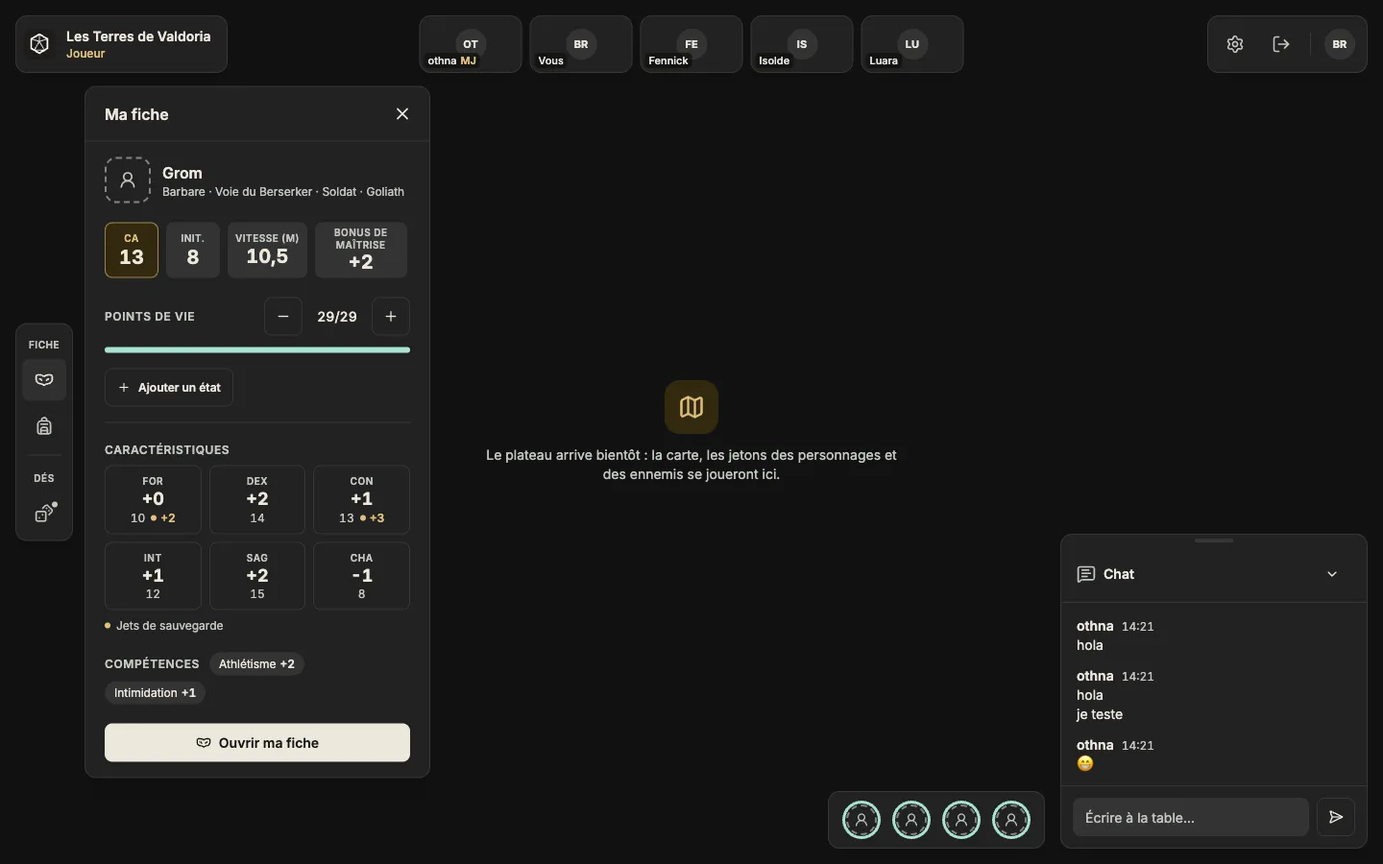
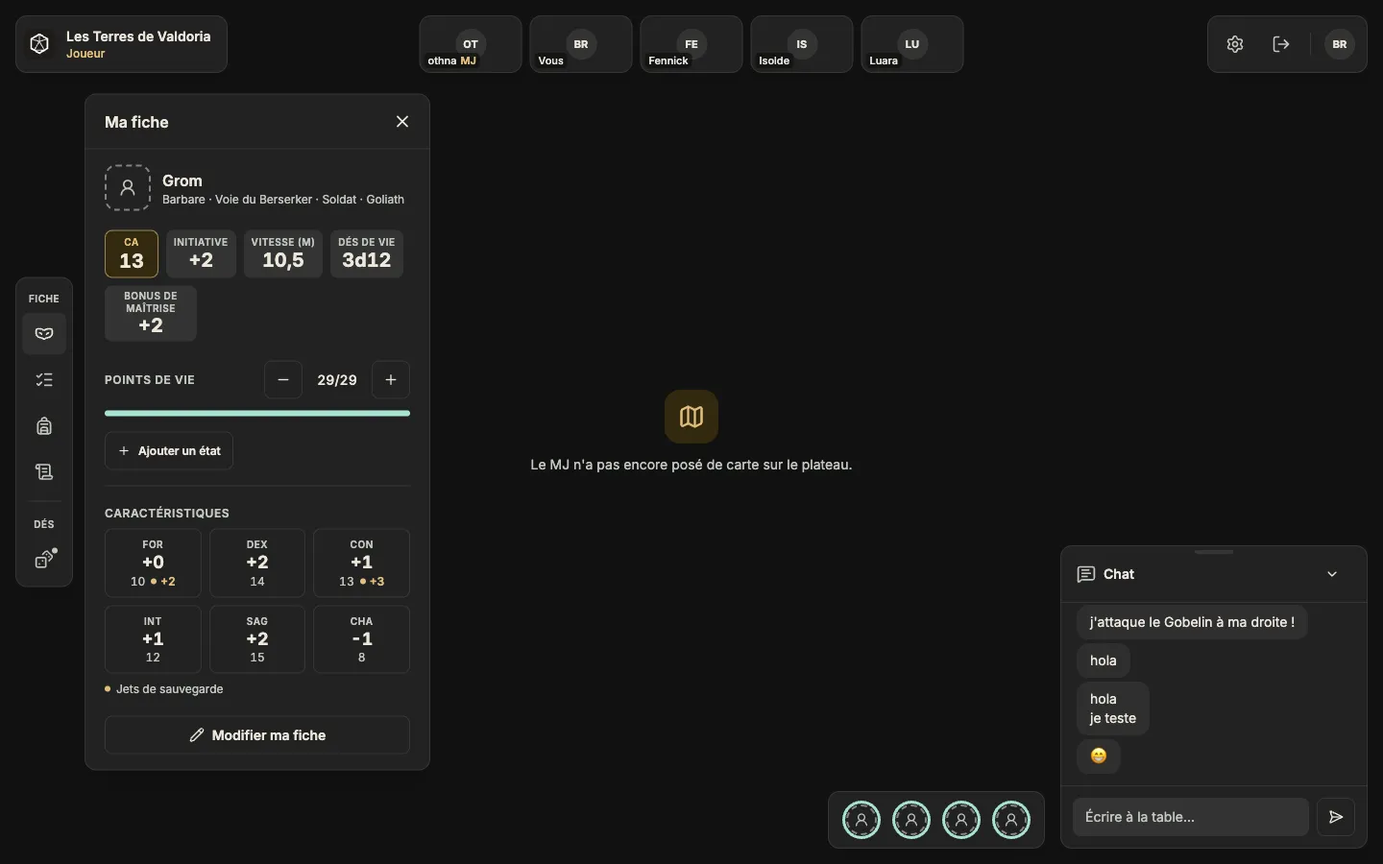
docs(game-room): note the panels and actions of a player

diff --git a/CLAUDE.md b/CLAUDE.md
@@ -1065,13 +1065,13 @@ Fait dans `feature/p1-game-room-frame` (le cadre de la salle de jeu, maquette C 
   - **Trois niveaux à ne pas confondre** : la **bibliothèque** (le catalogue : bestiaire, objets, PNJ créés par le MJ ; la fiche complète, pour préparer), la **fiche d'un PNJ ou d'un ennemi de la table** (sa copie dans `characters`), et le **combattant en jeu** (un jeton : ses PV, ses états, son initiative, seulement ce qui sert pendant un combat ; chaque gobelin le sien). L'état d'un combattant vit avec le jeton du plateau, à décider avec Julien
   - **La barre des combattants** : un îlot **en bas, à gauche du chat** (contre le bord droit de 768 à 1023 px, où le chat n'est pas), 60 px de haut comme lui, **toujours là**, à la place des joueurs de la barre d'outils. Un portrait rond par combattant (l'avatar d'un joueur, les initiales d'une créature, son numéro « 2 » dans un coin), dans l'anneau de ses PV (jamais pour un joueur qui regarde une créature) ; les portraits défilent quand ils ne tiennent pas, le tour en cours ramené au milieu
   - **Déroulé** (« tour par tour » et non « combat », décision : un MJ peut vouloir des tours sans combat) : **hors du tour par tour**, les joueurs seuls, sans ordre, et « Lancer le tour par tour » pour le MJ ; **une question d'abord** (`game_rooms/_turn_start_dialog`) : demander un jet d'initiative à toute la table (l'ordre suivra les résultats), ou « Sans jet » (les joueurs font autrement ; l'ordre reste celui de la barre) ; **préparation** : le MJ place sa carte, ses ennemis et ses zones bloquantes, la table lance son initiative s'il l'a demandé (« Préparation · 2 joueurs en attente »), les créatures entrent dans la barre, **cachées aux joueurs** (un œil barré) tant que le MJ n'a pas appuyé sur **« Prêt »** (bouton `:attention`, à côté d'« Annuler ») ; le serveur lance pour un joueur qui ne l'a pas fait ; **tours** : l'ordre, « Tour N », contour doré sur celui dont c'est le tour, « Tour suivant », « Fin du tour par tour » **demandé d'abord** dans la fenêtre de confirmation (l'ordre et les tours effacés, PV et états gardés). **Le MJ réordonne**, pendant les tours et dès la préparation sans jet, en glissant un portrait à la souris ou au doigt (un glisser fait à la main, `pointerdown` : un portrait est un bouton, d'où un navigateur ne lance pas de glisser-déposer natif ; le relâcher n'ouvre pas sa fiche), ou Alt et une flèche dessus ; le nouvel ordre est **demandé d'abord** (« Valider le nouvel ordre ? »), l'ordre d'avant revient s'il refuse
-  - **Fiche rapide** (au clic sur un portrait, au-dessus de la barre ; **le MJ seulement** : depuis le 26 novembre, demande d'Anthony, le portrait d'un joueur ouvre chez lui **son panneau « Ma fiche »**, comme l'outil de la barre, en ligne aussi, et les autres portraits n'ouvrent rien ; ce panneau, dans l'ordre où on le lit en combat (photo de 48 px ; le combat juste sous les valeurs, avant les caractéristiques), montre en plus sa CA, son initiative et, à côté, vitesse et bonus de maîtrise (`own_quick_stats`, `QUICK_STAT_FIELD_KEYS`, une case `game_rooms/_stat_box`, écrit pour D&D comme la CA en attendant que le modèle les déclare ; nom court : l'`abbreviation` du modèle, ajoutée à ces quatre champs de la fantasy), ses six caractéristiques (modificateur, score, et dans la case le jet de sauvegarde maîtrisé, point doré et bonus : la section qui a un bonus par caractéristique, `own_tile_bonus_section`), ses compétences cochées en pastilles (`own_ticked_chip_sections`), puis **la même carte de combat** que la fiche rapide, `game_rooms/_fighter_status` et `fighter_card_controller.js` (PV, états, emplacements, attaques ; ses − et +, ses états et ses emplacements cochables seulement avec `GameRoom.preview_features?`), qui prévient la barre par des événements, `fighter-card:hit-points` (l'anneau du portrait) et `fighter-card:open-conditions` (la fenêtre des états)) : le nom, **classe et espèce** dessous, la **CA dans une case dorée** et l'initiative à côté, les PV avec − et + et une barre, « Ajouter un état » qui ouvre **une fenêtre des états du modèle avec leur règle courte** (les états choisis en pastilles sous le bouton, retirés d'un clic), les **emplacements de sorts** d'un joueur par niveau, cochés quand ils sont utilisés, les attaques avec leurs dés et leurs dégâts, « Voir la fiche complète »
+  - **Fiche rapide** (au clic sur un portrait, au-dessus de la barre ; **le MJ seulement** : depuis le 26 novembre, demande d'Anthony, le portrait d'un joueur ouvre chez lui **son panneau « Ma fiche »**, comme l'outil de la barre, en ligne aussi, et les autres portraits n'ouvrent rien ; ce panneau, dans l'ordre où on le lit en combat (photo de 48 px ; le combat juste sous les valeurs, avant les caractéristiques), montre en plus sa CA, son initiative et, à côté, initiative, vitesse, dés de vie et bonus de maîtrise (`PlayerSheetPanelsHelper#own_quick_stats`, `QUICK_STAT_FIELD_KEYS`, une case `game_rooms/_stat_box` ; l'initiative tirée, simulée, reste dans la barre des combattants, écrit pour D&D comme la CA en attendant que le modèle les déclare ; nom court : l'`abbreviation` du modèle, ajoutée à ces quatre champs de la fantasy), ses six caractéristiques (modificateur, score, et dans la case le jet de sauvegarde maîtrisé, point doré et bonus : la section qui a un bonus par caractéristique, `own_tile_bonus_section`), puis **la même carte de combat** que la fiche rapide, `game_rooms/_fighter_status` et `fighter_card_controller.js` (PV, états, emplacements, attaques ; ses − et +, ses états et ses emplacements cochables seulement avec `GameRoom.preview_features?`), qui prévient la barre par des événements, `fighter-card:hit-points` (l'anneau du portrait) et `fighter-card:open-conditions` (la fenêtre des états)) : le nom, **classe et espèce** dessous, la **CA dans une case dorée** et l'initiative à côté, les PV avec − et + et une barre, « Ajouter un état » qui ouvre **une fenêtre des états du modèle avec leur règle courte** (les états choisis en pastilles sous le bouton, retirés d'un clic), les **emplacements de sorts** d'un joueur par niveau, cochés quand ils sont utilisés, les attaques avec leurs dés et leurs dégâts, « Voir la fiche complète »
   - **Le modèle décide, l'interface garde sa forme** (décision) : la règle d'initiative (dés, caractéristique ajoutée ; sans règle, pas de jet), la case de la CA (un champ marqué par le modèle : « Protection » en horreur cosmique) et la ligne sous le nom seront **déclarées par le modèle** ; cette première version les écrit encore pour D&D (d20 + DEX, clés `armor_class`, `class`, `species`). PV, états, emplacements et attaques lisent déjà le modèle
   - **Annuler une action** (demande d'Anthony) : dans l'historique des actions (le fil de jeu), le MJ pourra revenir en arrière (un « Tour suivant » de trop, un jet de dés, des PV changés...) quand un joueur ou lui se trompe : chaque action sera enregistrée avec ce qu'elle a changé
   - À trancher : où voir les joueurs sous 768 px (la barre des combattants n'y est pas)
 - **Donner un objet** (demande d'Anthony) : dans le panneau « Objets », « Donner » sur chaque objet ouvre une fenêtre (`game_rooms/_item_gift_dialog`, `item_gift_controller.js`) : à qui (les personnages terminés des joueurs, `GameRoom#gift_receivers`), combien (1 à 99), puis « Donner ». **Enregistré pour de vrai** : `GameTables::ItemGiftsController` (`POST /game_tables/:id/item_gift`, MJ de la table seulement, `TableOfGameMaster` ; un objet du catalogue de la table, `Catalogs::TableCatalog` ; un personnage de ses joueurs ; 404 sinon) met une copie de l'objet dans l'inventaire (`InventoryItem.from_entry`, aussi lu par `copy_of`), puis revient dans la salle, le panneau toujours ouvert, avec une bulle « 3 × « Dague » donnés à Aria. ». Échap dans une fenêtre ne ferme plus le panneau dessous (`game_room_panels_controller.js#close` : aucune fenêtre ouverte)
-- **Placer sur le plateau, première version** (demande d'Anthony ; rien d'enregistré, le vrai plateau est la branche de Julien) : « Placer » sur une carte dessinée du panneau « Cartes » l'affiche sur le plateau, **sur tout l'écran**, sous les îlots, aussi grande qu'elle tient sans être coupée (décision), dessinée comme son aperçu avec ses jetons (`game_tables/show`, une `<svg>` cachée par carte, `room_board_controller.js`) ; le bouton devient alors **« Retirer »**, qui la retire du plateau (et lâche l'outil d'une créature) ; « Placer » sur un PNJ ou un ennemi du panneau « PNJ et ennemis » le prend **comme outil, comme un jeton dans l'éditeur de cartes** : chaque clic sur la carte pose son jeton dans la case visée (une par case, `map_preview_controller.js#placeToken`), une bulle en haut le dit, Échap ou le clic droit le lâchent. **Sans carte sur le plateau, ce bouton ne fait rien et le dit** (`aria-disabled`, info-bulle « Placez d'abord une carte sur le plateau »). « Ajouter une carte », dans le panneau « Cartes », ouvre **dans la salle** la fenêtre « Importer depuis Mes cartes » de l'étape Cartes (`game_tables/game_maps/_dialog`, rendue par `layouts/game_room` pour le MJ ; demande d'Anthony : avant, il renvoyait vers l'étape de création) : la carte choisie est copiée dans la table et la salle se rafraîchit, le panneau toujours ouvert. **Un joueur a aussi « Inventaire » et « Sorts »** dans le groupe « Fiche » (demande d'Anthony, 26 novembre ; « Sorts » seulement s'il en a, `GameRoom#tool_groups`) : `game_rooms/panels/_inventory` (l'or, puis les objets) et `_spells` (en tête, le DD et l'attaque des sorts, `SPELL_STAT_FIELD_KEYS`, et **les emplacements de sorts**, `game_rooms/_spell_slots`, décision du 26 novembre : on les regarde en lançant un sort, ils ne sont plus dans « Ma fiche », la fiche rapide du MJ les garde ; puis les sorts par groupe, `summary_spell_groups`), en lecture seule sauf les emplacements à cocher, et « Modifier » de la fiche complète ouvre son formulaire **dans la même fenêtre** (`characters/edit` rendu dans le frame `character_sheet_dialog`, formulaire commun `characters/_description_form`, formulaires de la photo dans le frame ; `CharactersController#update` ramène à la fiche dans la fenêtre ; avant, « Content missing »), chaque ligne ouvrant ses détails dans **une seule** fenêtre `shared/_details_dialog` rendue par `layouts/game_room`, `details-dialog` posé sur la salle. Les panneaux **prennent la hauteur de leur contenu** et défilent au-delà de la hauteur de l'écran (`md:max-h-[calc(100dvh-11rem)]`, demande d'Anthony)
-- **Caméras** (demande d'Anthony, en attendant la visio Jitsi) : **en haut au milieu, sur une ligne, sans carte** (décision, après un premier essai dans un îlot à droite sous les paramètres), centrée sur l'écran, son haut sur celui des îlots, 320 px gardés de chaque côté pour le nom de la table (limité à 288 px) et les paramètres (`game_rooms/_video`) : une place par personne de la table (`GameRoom#video_participations` : le MJ, puis les joueurs acceptés ; leur avatar et leur nom, « Vous » pour soi, « MJ »), chacune un petit îlot 16:9 ; la liste avec un `id` fixe et `data-turbo-permanent` (règle de la visio). **Pas de défilement** (décision) : quand les places ne tiennent pas, elles rétrécissent toutes ensemble en gardant leur format 16:9, la taille choisie n'étant qu'un maximum. **Trois tailles** : 60 px de haut (celle des îlots), 90 ou 135 px. **Sous 60 px de haut, la ligne se replie toute seule** (décision : quand les places à leur plus petite taille, 107 px de large, ne tiennent plus entre les îlots, elle devient un bouton « Visio » de 60 px de haut, qui ouvre la visio au centre). **Visio au centre** (décision) : les caméras prennent la place entre la barre d'outils, les îlots du haut et la barre des combattants, **posées sur le plateau, sans carte autour** (décision), en grandes places de 320 px rangées en rangées centrées, jusqu'à « Revenir en haut » ou Échap (`data-size="stage"`, `GameRoomHelper::VIDEO_CLASSES`, `VIDEO_PLACES_CLASSES`, `VIDEO_PLACE_CLASSES`, clé `game_room_video_stage`). Au survol ou au clavier, une petite pastille sous la ligne (« Visio · Bientôt », −, +, visio au centre, replier ; boutons de 28 px, `GameRoomHelper::ISLAND_HEADER_BUTTON_CLASSES`) ; repliée, il ne reste qu'un bouton « Visio ». Dans Paramètres › Visio et son, « Afficher les caméras » et « Taille des caméras » (`video_settings_controller.js`). Tout gardé dans ce navigateur (`video_island_controller.js`, clés `game_room_video_size`, `game_room_video_folded`, `game_room_video_hidden`), les caméras et les réglages accordés par l'événement `game-room-video:change`. À partir de 768 px
+- **Placer sur le plateau, première version** (demande d'Anthony ; rien d'enregistré, le vrai plateau est la branche de Julien) : « Placer » sur une carte dessinée du panneau « Cartes » l'affiche sur le plateau, **sur tout l'écran**, sous les îlots, aussi grande qu'elle tient sans être coupée (décision), dessinée comme son aperçu avec ses jetons (`game_tables/show`, une `<svg>` cachée par carte, `room_board_controller.js`) ; le bouton devient alors **« Retirer »**, qui la retire du plateau (et lâche l'outil d'une créature) ; « Placer » sur un PNJ ou un ennemi du panneau « PNJ et ennemis » le prend **comme outil, comme un jeton dans l'éditeur de cartes** : chaque clic sur la carte pose son jeton dans la case visée (une par case, `map_preview_controller.js#placeToken`), une bulle en haut le dit, Échap ou le clic droit le lâchent. **Sans carte sur le plateau, ce bouton ne fait rien et le dit** (`aria-disabled`, info-bulle « Placez d'abord une carte sur le plateau »). « Ajouter une carte », dans le panneau « Cartes », ouvre **dans la salle** la fenêtre « Importer depuis Mes cartes » de l'étape Cartes (`game_tables/game_maps/_dialog`, rendue par `layouts/game_room` pour le MJ ; demande d'Anthony : avant, il renvoyait vers l'étape de création) : la carte choisie est copiée dans la table et la salle se rafraîchit, le panneau toujours ouvert. **Toute la fiche d'un joueur est dans ses panneaux** (demande d'Anthony, 26 novembre) : le groupe « Fiche » a « Ma fiche », « Compétences » (toutes les lignes de bonus par section, `game_rooms/panels/_skills`, `summary/_rows`), « Inventaire » (son bouton à bordure **« −1 »**, `TAKE_ONE_BUTTON_CLASSES`, retire un exemplaire, enregistré : `GameTables::InventoryItemsController#destroy`, `InventoryItem#take_one_away`, le dernier demandé d'abord, la liste redessinée en place par un Turbo Stream ; `details_dialog_controller.js` montre ses boutons par `openerTargetConnected`, aussi après ce redessin ; **les pièces d'or se dépensent**, sur une ligne : leur valeur à gauche, la somme entre « − » et « + » (le compteur de la fiche, à partir de 1) et « Retirer » à droite, jamais plus que possédé, `GameTables::InventoryValuesController`, `own_removable_value?`), « Sorts » (**« Changer mes sorts »**, décision du 26 novembre : quand il veut, dans les nombres de sa classe et de son niveau, la liste de l'étape Sorts dans la grande fenêtre de la salle, `GameTables::SpellChoicesController`, le changement écrit dans le chat, événement `spells_changed` en notation neutre « + Aide · − Soins » ; `shared/_details_dialog` prend un `id:` quand une page en a deux) et « Détails » (`game_rooms/panels/_details` : **tout le reste de la fiche, calculé** par `PlayerSheetPanelsHelper#own_detail_sections`, ce que montre la fiche complète moins ce qu'un autre panneau montre, rangé par section dans les cases du récapitulatif ; le niveau avec la première section ; **sans les longs textes**, apparence, traits, histoire, décision : trop longs pour le panneau, ils sont dans « Modifier ma fiche », `GROUPS_LEFT_OUT_OF_DETAILS`). Un outil vide n'apparaît pas (`GameRoom#tool_groups` : « Sorts » sans sorts, « Compétences » sans lignes de bonus). Les helpers des panneaux sont dans `PlayerSheetPanelsHelper` (sortis de `CombatStripHelper`). **« Ouvrir ma fiche » devient « Modifier ma fiche »** (bouton secondaire au pied de « Ma fiche ») : le formulaire du personnage dans la fenêtre de la salle ; « Annuler » la ferme, « Enregistrer » rafraîchit la salle (`turbo_stream.refresh`), qui montre le changement. Le joueur a aussi « Inventaire » et « Sorts » : `game_rooms/panels/_inventory` (l'or, puis les objets) et `_spells` (en tête, le DD et l'attaque des sorts, `SPELL_STAT_FIELD_KEYS`, et **les emplacements de sorts**, `game_rooms/_spell_slots`, décision du 26 novembre : on les regarde en lançant un sort, ils ne sont plus dans « Ma fiche », la fiche rapide du MJ les garde ; puis les sorts par groupe, `summary_spell_groups`), en lecture seule sauf les emplacements à cocher, et le formulaire du personnage s'ouvre **dans la fenêtre de la fiche** (`characters/edit` rendu dans le frame `character_sheet_dialog`, formulaire commun `characters/_description_form`, formulaires de la photo dans le frame ; avant, « Content missing »), chaque ligne ouvrant ses détails dans **une seule** fenêtre `shared/_details_dialog` rendue par `layouts/game_room`, `details-dialog` posé sur la salle. Les panneaux **prennent la hauteur de leur contenu** et défilent au-delà de la hauteur de l'écran (`md:max-h-[calc(100dvh-11rem)]`, demande d'Anthony)
+- **Caméras** (demande d'Anthony, en attendant la visio Jitsi) : **en haut au milieu, sur une ligne, sans carte** (décision, après un premier essai dans un îlot à droite sous les paramètres), centrée sur l'écran, son haut sur celui des îlots, 320 px gardés de chaque côté pour le nom de la table (limité à 288 px) et les paramètres (`game_rooms/_video`) : une place par personne de la table (`GameRoom#video_participations` : le MJ, puis les joueurs acceptés ; leur avatar et leur nom, « Vous » pour soi, « MJ »), chacune un petit îlot 16:9 ; la liste avec un `id` fixe et `data-turbo-permanent` (règle de la visio). **Pas de défilement** (décision) : quand les places ne tiennent pas, elles rétrécissent toutes ensemble en gardant leur format 16:9, la taille choisie n'étant qu'un maximum. **Trois tailles** : 60 px de haut (celle des îlots), 90 ou 135 px. **Sous 60 px de haut, la ligne se replie toute seule** (décision : quand les places à leur plus petite taille, 107 px de large, ne tiennent plus entre les îlots, elle devient un bouton « Visio » de 60 px de haut, qui ouvre la visio au centre). **Visio au centre** (décision) : les caméras prennent la place entre la barre d'outils, les îlots du haut et la barre des combattants, **posées sur le plateau, sans carte autour** (décision), en grandes places de 320 px rangées en rangées centrées, jusqu'à « Revenir en haut » ou Échap (`data-size="stage"`, `GameRoomHelper::VIDEO_CLASSES`, `VIDEO_PLACES_CLASSES`, `VIDEO_PLACE_CLASSES`, clé `game_room_video_stage`). Au survol ou au clavier, une petite pastille sous la ligne (« Visio », −, +, visio au centre, replier ; « Bientôt » retiré de la pastille et du bouton replié, qui fait 40 px de haut, demande d'Anthony ; boutons de 28 px, `GameRoomHelper::ISLAND_HEADER_BUTTON_CLASSES`) ; repliée, il ne reste qu'un bouton « Visio ». Dans Paramètres › Visio et son, « Afficher les caméras » et « Taille des caméras » (`video_settings_controller.js`). Tout gardé dans ce navigateur (`video_island_controller.js`, clés `game_room_video_size`, `game_room_video_folded`, `game_room_video_hidden`), les caméras et les réglages accordés par l'événement `game-room-video:change`. À partir de 768 px
 - Tests : `test/integration/game_room_test.rb` (outils et groupes par rôle, la barre des combattants et ses fiches rapides selon le rôle, les caméras, le chat, les paramètres, quitter) ; vérifié dans le navigateur (MJ et joueur, panneaux, info-bulles, chat replié et agrandi au clavier, sombre, téléphone à 375 px sans défilement de côté)
 
 Fait dans `feature/p1-game-room-chat` (le chat de la salle de jeu : messages en direct et fil de jeu) :

diff --git a/docs/salle-de-jeu.md b/docs/salle-de-jeu.md
@@ -66,21 +66,32 @@ Sur téléphone (simplifié, décision) : la barre d'outils en bas, un panneau p
 - « Créer un objet » ouvre sa fenêtre dans la salle.
 - **« Donner »** : fenêtre « Donner « Arc court » » → à qui (personnages terminés des joueurs), combien (1 à 99) → « Donner ». **Enregistré** : une copie de l'objet entre dans l'inventaire du personnage ; bulle « 3 × « Dague » donnés à Aria. ». Serveur : MJ de la table, objet du catalogue de la table, personnage d'un de ses joueurs, sinon 404 (`GameTables::ItemGiftsController`).
 
-### Ma fiche (joueur)
-Ouvert par l'outil « Ma fiche » **ou par son propre portrait** dans la barre des combattants (décision du 26 novembre : le joueur n'a plus de fiche rapide au-dessus de la barre ; un second clic sur le portrait ferme le panneau, le focus revient à ce qui l'a ouvert). Dans l'ordre où on le lit en combat (demande d'Anthony : la photo petite) :
-- Une **petite photo** (48 px), le nom, les choix.
-- La **CA** dans sa case dorée, l'initiative, puis les valeurs qu'un joueur regarde en combat, dans des cases de même taille qui passent à la ligne : **vitesse, bonus de maîtrise**. Leur nom court est l'abréviation du modèle (« Vit. (m) », « Maîtrise »), sinon leur libellé, sur deux lignes au plus.
-- **Combat**, la même carte que la fiche rapide du MJ (`game_rooms/_fighter_status`, `fighter_card_controller.js`) : PV avec − et + (l'anneau du portrait suit), « Ajouter un état », attaques. **Les emplacements de sorts sont dans le panneau Sorts** (décision du 26 novembre).
-- **Caractéristiques** : six cases (abréviation, modificateur en grand, score avec le bonus de l'historique). Un **jet de sauvegarde maîtrisé** s'affiche dans la case de sa caractéristique, à côté du score : un point doré et son bonus (« 14 ● +4 »), avec une légende dessous (« ● Jets de sauvegarde »). C'est la section du modèle qui a un bonus par caractéristique.
-- **Compétences maîtrisées** en pastilles sur une ligne qui passe à la ligne (« Perspicacité +4 »), seulement celles cochées sur la fiche, par section du modèle.
-- « Ouvrir ma fiche » ouvre la fiche complète dans une fenêtre. Son bouton **« Modifier »** (nom, identité, description, photo) ouvre le formulaire **dans la même fenêtre** : « Enregistrer » et « Annuler » ramènent à la fiche, toujours dans la fenêtre ; le joueur ne quitte jamais la partie (décision du 26 novembre, avant : « Content missing »).
+### Les panneaux de la fiche (joueur)
+**Toute la fiche est dans les panneaux** (décision du 26 novembre) : le groupe « Fiche » de la barre a « Ma fiche », « Compétences », « Inventaire », « Sorts » et « Détails ». La fiche complète ne s'ouvre plus que pour **modifier** ce qui peut l'être. Un outil vide n'apparaît pas (`GameRoom#tool_groups`) : « Sorts » pour un personnage sans sorts, « Compétences » pour un modèle sans compétences.
 
-### Inventaire et Sorts (joueur)
-Deux outils de plus dans le groupe « Fiche » (décision du 26 novembre). **« Sorts » seulement pour un personnage qui a des sorts** (`GameRoom#tool_groups`).
-- **Inventaire** : l'or en tête (les valeurs de jeu de l'étape Équipement), puis une ligne par objet (« 2 × Dague », dégâts ou CA). « Rien dans l'inventaire. » sinon.
-- **Sorts** : en tête, ce qu'on regarde en lançant un sort (décision du 26 novembre) : le **DD et l'attaque des sorts** (« DD sorts », « Att. sorts »), puis les **emplacements de sorts**, cochés quand ils sont utilisés. Puis les sorts par groupe, comme au récapitulatif (toujours préparés, sorts mineurs, sorts préparés de niveau 1…), chacun avec son école. La fiche rapide du MJ garde aussi les emplacements.
-- Chaque objet et chaque sort ouvre **ses détails dans une fenêtre** (la même que sur la fiche, une seule pour la salle) ; Échap la ferme et laisse le panneau ouvert.
-- Lecture seule : ce que le personnage porte et connaît change par la fiche (et par « Donner » du MJ).
+#### Ma fiche
+Ouvert par l'outil « Ma fiche » **ou par son propre portrait** dans la barre des combattants (le joueur n'a plus de fiche rapide au-dessus de la barre ; un second clic sur le portrait ferme le panneau, le focus revient à ce qui l'a ouvert). Dans l'ordre où on le lit en combat :
+- Une **petite photo** (48 px), le nom, les choix (classe, sous-classe, historique, espèce).
+- La **CA** dans sa case dorée, puis les valeurs qu'un joueur regarde en combat, dans des cases de même taille qui passent à la ligne : **initiative, vitesse, dés de vie, bonus de maîtrise** (`PlayerSheetPanelsHelper::QUICK_STAT_FIELD_KEYS`). Leur nom court est l'abréviation du modèle (« Vit. (m) », « Maîtrise »), sinon leur libellé, sur deux lignes au plus. L'initiative tirée (simulée) reste dans la barre des combattants.
+- **Combat**, la même carte que la fiche rapide du MJ (`game_rooms/_fighter_status`, `fighter_card_controller.js`) : PV avec − et + (l'anneau du portrait suit), « Ajouter un état », attaques.
+- **Caractéristiques** : six cases (abréviation, modificateur en grand, score avec le bonus de l'historique). Un **jet de sauvegarde maîtrisé** s'affiche dans la case de sa caractéristique, à côté du score : un point doré et son bonus (« 14 ● +4 »), avec une légende dessous (« ● Jets de sauvegarde »).
+- **« Modifier ma fiche »** (bouton secondaire, crayon) : le formulaire du nom, de l'identité, de la description et de la photo, **dans une fenêtre de la salle**. « Annuler » la ferme ; « Enregistrer » rafraîchit la salle, qui montre le changement, fenêtre fermée. Le joueur ne quitte jamais la partie.
+
+#### Compétences
+**Toutes** les lignes de bonus, par section du modèle (« Jets de sauvegarde », « Compétences »), comme au récapitulatif : un point plein si maîtrisé, le nom, la caractéristique, le bonus à droite. Toutes, pas seulement les maîtrisées : le MJ peut demander n'importe quel jet.
+
+#### Inventaire
+L'or en tête (les valeurs de jeu de l'étape Équipement), puis une ligne par objet (« 2 × Dague », dégâts ou CA). « Rien dans l'inventaire. » sinon. Le bouton **« −1 »** d'une ligne (à bordure : un simple − se lisait comme une valeur vide) **retire un exemplaire** (une flèche tirée, une potion bue ; décision du 26 novembre : un à la fois), sans question ; le dernier exemplaire est demandé d'abord (« Retirer « Dague » de l'inventaire ? », en rouge) et retire la ligne. **Enregistré** (`GameTables::InventoryItemsController#destroy`, `InventoryItem#take_one_away` : un joueur accepté de la table, un objet de son propre personnage, 404 sinon, MJ compris) ; le serveur redessine la liste en place (`#game-room-inventory`), le panneau reste ouvert. **Les pièces d'or se dépensent** (demande d'Anthony, 26 novembre) : sur une ligne, comme les PV de « Ma fiche » : « PIÈCES D'OR 7 » à gauche, à droite la somme entre « − » et « + » (le compteur de la fiche, `character_sheets/fields/_stepper`, jamais les flèches du navigateur ; elle commence à 1) et « Retirer » ; jamais plus que ce que le personnage possède (« Indiquez une somme de 1 à 7. » sous le champ). Enregistré (`GameTables::InventoryValuesController`, toute valeur numérique rangée avec l'inventaire, `own_removable_value?`), même règle d'accès, même redessin.
+
+#### Sorts
+En tête, ce qu'on regarde en lançant un sort : le **DD et l'attaque des sorts** (« DD sorts », « Att. sorts »), puis les **emplacements de sorts**, cochés quand ils sont utilisés. Puis les sorts par groupe, comme au récapitulatif (toujours préparés, sorts mineurs, sorts préparés de niveau 1…), chacun avec son école. La fiche rapide du MJ garde aussi les emplacements.
+
+**« Changer mes sorts »**, en tête du panneau (décision du 26 novembre : **quand il veut**, dans les nombres de sa classe et de son niveau, vérifiés par le serveur, `CharacterSpellsValidator`), ouvre **la liste de l'étape Sorts de la création** dans la grande fenêtre de la salle, resserrée (`compact:`, demande d'Anthony : sans les emplacements, déjà dans le panneau derrière ; la recherche, son nom dans le champ, et les filtres sur une ligne ; 24 px entre les blocs) : recherche, filtres, sorts toujours préparés, compteurs « 2 sur 3 choisis », détails de chaque sort. « Enregistrer » rafraîchit la salle et **écrit le changement dans le chat**, pour que le MJ le voie : « Mirelle change ses sorts : + Aide · − Soins. » (les noms en notation neutre, la phrase dans la langue de chaque lecteur, événement `spells_changed`). Trop de sorts dans un groupe : la liste revient avec son erreur. `GameTables::SpellChoicesController` (un joueur accepté, son personnage terminé, une classe qui a des sorts à choisir ; 404 sinon, MJ compris).
+
+#### Détails
+**Tout le reste de la fiche**, calculé et non écrit à la main (`PlayerSheetPanelsHelper#own_detail_sections`) : ce que montre la fiche complète, moins ce qu'un autre panneau montre déjà. Rangé par section du modèle, avec les cases du récapitulatif : en fantasy, taille, alignement, langues et niveau, puis l'apparence physique (âge, taille, poids, yeux, cheveux, peau). **Les longs textes** (apparence, traits, histoire, capacités) **n'y sont pas** (décision du 26 novembre : trop longs pour un panneau étroit, peu utiles en partie) : ils se lisent et se changent dans « Modifier ma fiche ». Vérifié sur les douze personnages du seed : à part ces textes, rien de la fiche ne manque aux panneaux.
+
+Dans Inventaire et Sorts, chaque objet et chaque sort ouvre **ses détails dans une fenêtre** (la même que sur la fiche, une seule pour la salle) ; Échap la ferme et laisse le panneau ouvert. Tout est en lecture seule, sauf les PV, les états et les emplacements (simulés) et le retrait d'un objet (enregistré).
 
 ## Plateau
 
@@ -149,7 +160,7 @@ Au-dessus de la barre, une à la fois ; Échap ou un clic ailleurs la ferment. *
 
 - **Une ligne en haut, centrée sur l'écran, sans carte autour** : une vignette 16:9 par personne de la table (MJ puis joueurs), chacune un petit îlot, avatar et nom (« Vous » pour soi, « MJ ») en attendant Jitsi. Le haut des vignettes est aligné sur celui des îlots.
 - **Trois tailles** : 60 px de haut (celle des îlots), 90 ou 135 px. **Jamais de défilement** : quand elles ne tiennent pas, elles rétrécissent ensemble en gardant leur format ; **sous 60 px de haut, la ligne se replie toute seule** en un bouton « Visio » (60 px de haut), qui ouvre la visio au centre.
-- Au survol ou au clavier, une petite pastille sous la ligne : « Visio · Bientôt », −, +, **visio au centre**, replier. Repliée : un bouton « Visio ».
+- Au survol ou au clavier, une petite pastille sous la ligne : « Visio », −, +, **visio au centre**, replier. Repliée : un bouton « Visio » de 40 px de haut, la hauteur des boutons, avec un petit chevron vers le bas (on comprend qu'il déplie), **sans « Bientôt »** (demande d'Anthony, 26 novembre ; le titre caché le dit encore aux lecteurs d'écran).
 - **Visio au centre** : les vignettes prennent la place entre la barre d'outils, les îlots du haut et la barre des combattants, **posées sur le plateau, sans carte**, en rangées centrées de 320 px ; « Revenir en haut » ou Échap.
 - Paramètres › Visio et son : « Afficher les caméras » (les cache entièrement) et « Taille des caméras ».
 - **À brancher** : le conteneur de la visio garde un `id` fixe et `data-turbo-permanent` (règle du projet) : Jitsi s'installera dans `#game-room-video-places`. Donner à la salle Jitsi un nom impossible à deviner.
@@ -203,7 +214,9 @@ Dans `docs/prototypes/salle-de-jeu/`, 1440 × 900, chacune en sombre (`-dark`) e
 | `10-mj-visio-au-centre` | La visio au centre, pendant les tours |
 | `11-mj-parametres-de-la-partie` | La fenêtre des paramètres de la partie |
 | `12-joueur-salle` | La salle d'un joueur (Fiche, Dés ; sa place « Vous ») |
-| `13-joueur-sa-fiche` | Son panneau « Ma fiche », ouvert depuis son portrait |
+| `13-joueur-sa-fiche` | Son panneau « Ma fiche », ouvert depuis son portrait, « Modifier ma fiche » en bas |
 | `14-joueur-ses-sorts` | Son panneau « Sorts » : DD, attaque, emplacements, puis les sorts (Mirelle, joueuse Isolde) |
+| `15-joueur-ses-competences` | Son panneau « Compétences » : sauvegardes et compétences, maîtrisées ou non |
+| `16-joueur-details` | Son panneau « Détails » : le reste de la fiche |
 
 Elles se refont par un script hors du dépôt (Selenium, Chrome sans fenêtre, sur le serveur local) ; à refaire quand la salle change.
